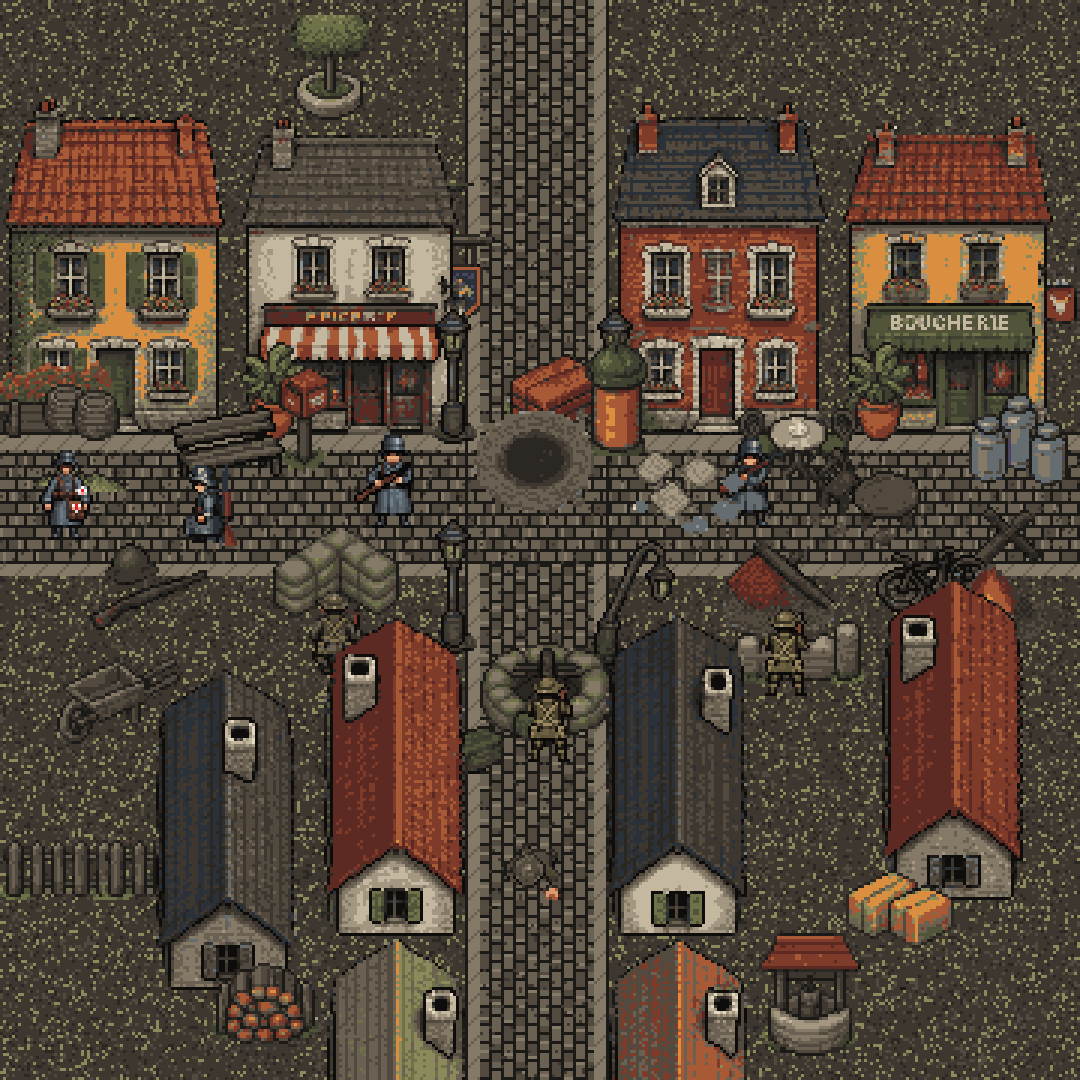
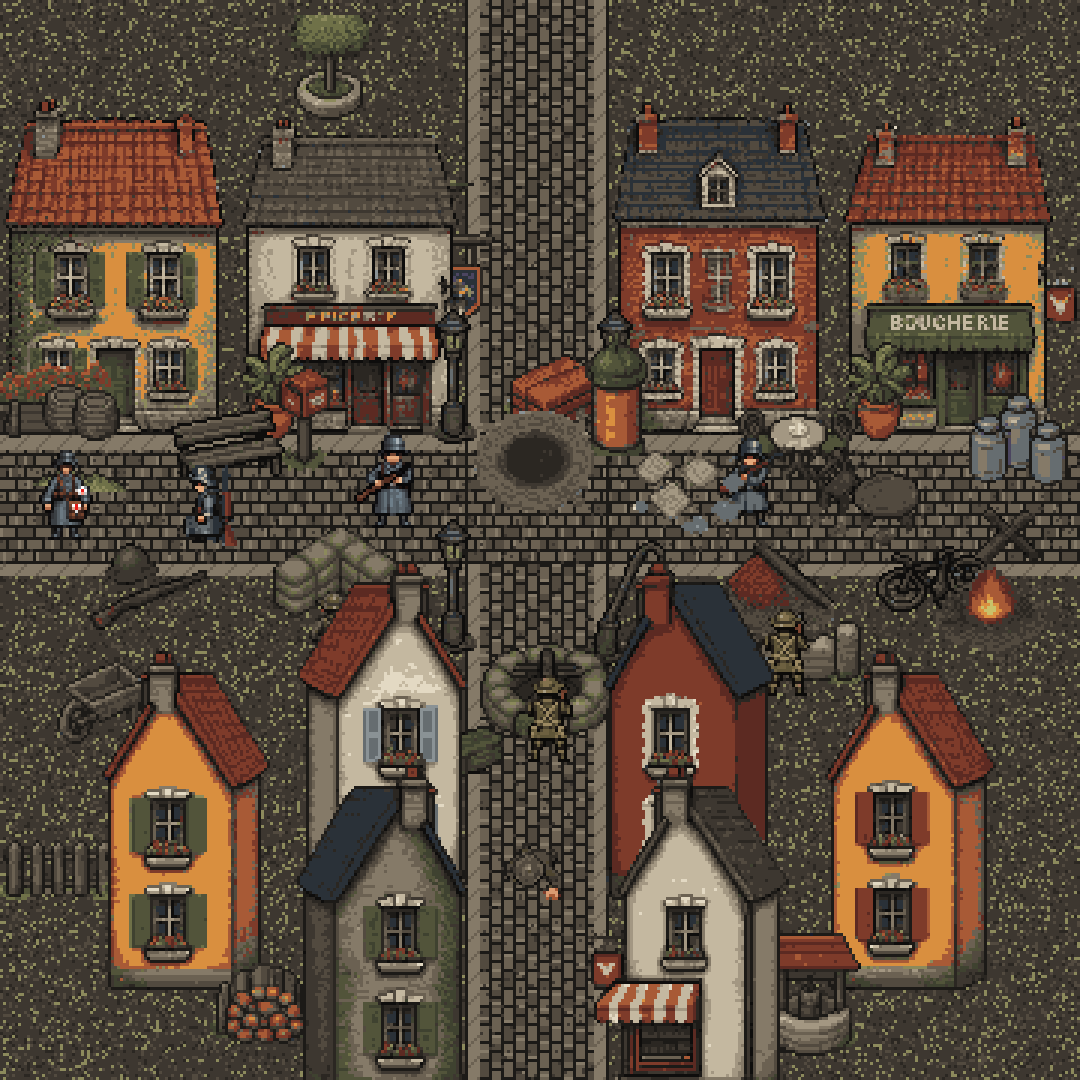
Vesnice: stejné barevné domy z boku (stejná výška), křižovatka s nimi
Claude-Session: https://claude.ai/code/session_01VWWMSwJGFZow7tBNcmKaEZ

Changed region(s): [[0.0917, 0.5194, 0.4278, 1.0], [0.55, 0.5194, 0.7333, 1.0], [0.7639, 0.5194, 0.9472, 0.9167]]

diff --git a/docs/mockups/village/village4.py b/docs/mockups/village/village4.py
@@ -36,8 +36,11 @@ for n, x, y in [('fence', 20, 300), ('fence', 54, 300), ('tree_planter', 110, 40
 # horní řady: domy čelem k vodorovné ulici
 for n, cx in [('big/house_ochre', 38), ('big/shop_epicerie', 118), ('big/house_brick', 240), ('big/shop_boucherie', 320)]: put(L(n), cx, HS - 5)
 # dole: domy bokem podél svislé ulice (štít ke kameře), za nimi druhý dům
-for n, cx, f in [('side/side_1', 132, 312), ('side/side_6', 226, 312), ('side/side_3', 132, 360 + 60), ('side/side_7', 226, 360 + 60)]: put(L(n), cx, f)
-for n, cx, f in [('side/side_2', 76, 330), ('side/side_5', 318, 300)]: put(L(n), cx, f)
+# domy z boku (štítová stěna ke kameře) v řadě podél svislé ulice; vlevo od ulice zrcadlené, ať boční pás míří k ulici
+def putm(img, cx, foot): put(img.transpose(Image.FLIP_LEFT_RIGHT), cx, foot)
+for i, (n, f) in enumerate([('house_cream', 300), ('house_stone', 368)]): putm(L(f'side/{n}_side'), 128, f)
+for i, (n, f) in enumerate([('house_brick', 300), ('shop_epicerie', 368)]): put(L(f'side/{n}_side'), 230, f)
+for n, cx, f in [('side/house_ochre_side', 62, 330), ('side/shop_mustard_side', 304, 330)]: put(L(n), cx, f)
 # dekorace podél ulic a na křižovatce
 props = [('lamp', 152, HS - 2), ('lamp', 206, HS - 2), ('lamp', 152, HE + 30), ('lamp_broken', 210, HE + 34), ('poster_column', 206, HS + 2), ('cafe_table', 266, HS + 10),
          ('flower_box', 18, HS - 4), ('plant_pot', 92, HS - 3), ('plant_pot', 294, HS - 3), ('shop_sign', 150, 108), ('bench', 76, HS + 14), ('mailbox', 102, HS + 8),

diff --git a/docs/VILLAGE.md b/docs/VILLAGE.md
@@ -26,3 +26,4 @@ Fleury u Verdunu (16× jiný majitel), Thiepval, Beaumont-Hamel, Guillemont: ves
 - **Domy bokem pro svislé ulice** `art/cine/village_side_a.png` (9 gen.) → `art/village/side/side_1..8`: dům otočený o 90° jako v klasickém RPG (dlouhá střecha shora, hřeben nahoru-dolů, dole štít s oknem); kamera zůstává stejná jako ve hře. Zatím jednoduché (přízemní, bez oken na boku).
 - **Dekorace** `village_props_b.png` (město: sloup s plakáty, stolek kavárny, truhlík, květináč, vývěsní štít, plot, zbořená zídka, studna, dříví, seno, konve, malý sud 15 px, kolečko, schránka, cihly, strom v květináči) a `village_props_c.png` (válka: kráter v dlažbě, kulometné hnízdo, bedny s municí, helma a puška, rozbitý stůl, papíry a sklo, padlý sloup, drát, tašky a trámy, ohořelý vůz, roh z pytlů (trochu šikmo), telefon, mrtvý kůň pod plachtou, oheň v sutinách, padlá lampa, louže), po 6 gen. Celkem 48 předmětů v `art/village/props/`.
 - Ukázka křižovatky: `docs/mockups/village/village4.py` → `village4.png` (kreslí se podle čáry nohou, co je níž, je vpředu).
+- **Stejné domy z boku** (uživatel: „stejné domy, jen boční pohled, stejná výška“): `art/cine/village_color_side.png` (9 gen., předlohou barevné domy) → `art/village/side/<dům>_side.png` (house_ochre, house_brick, house_cream, shop_epicerie, house_stone, shop_mustard), výška 113 px jako zepředu. Štítová stěna ke kameře, úzký pruh dlouhé stěny na jedné straně; na levé straně ulice se zrcadlí, ať pruh míří k ulici. Staré `side_1..8` (jen střecha) nahrazeny.
